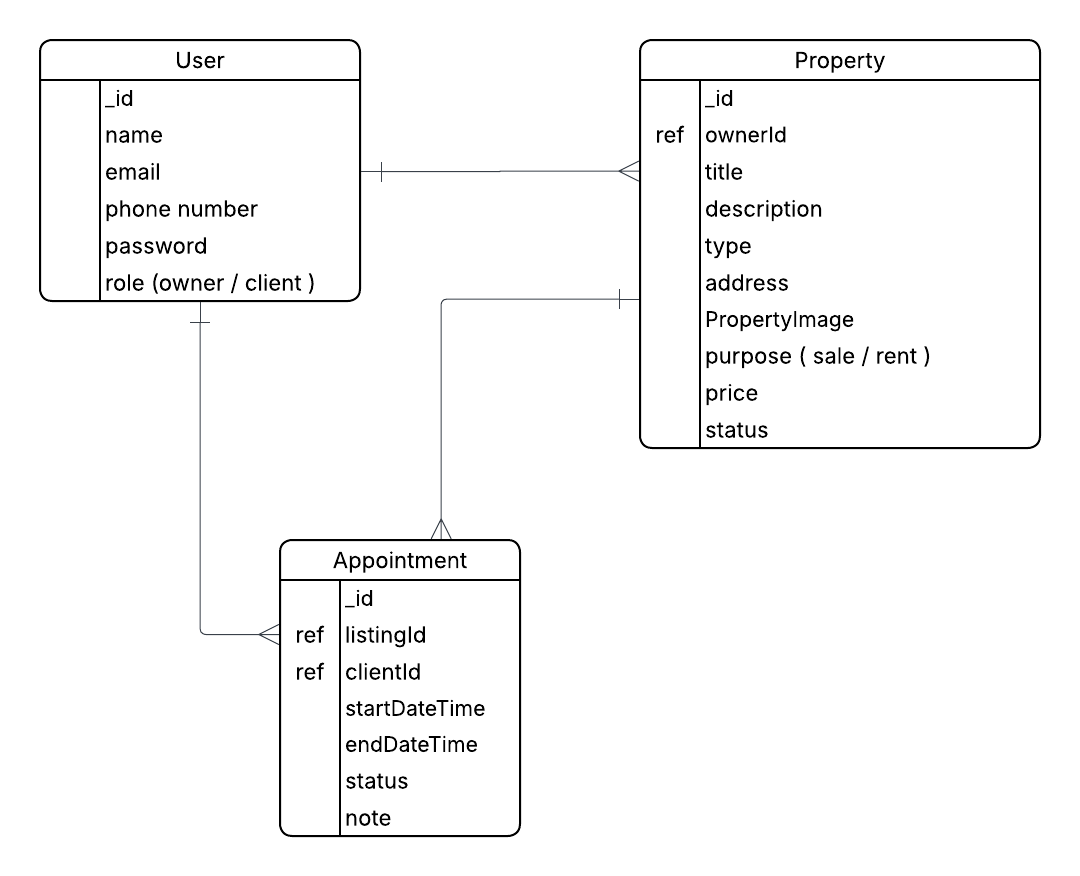
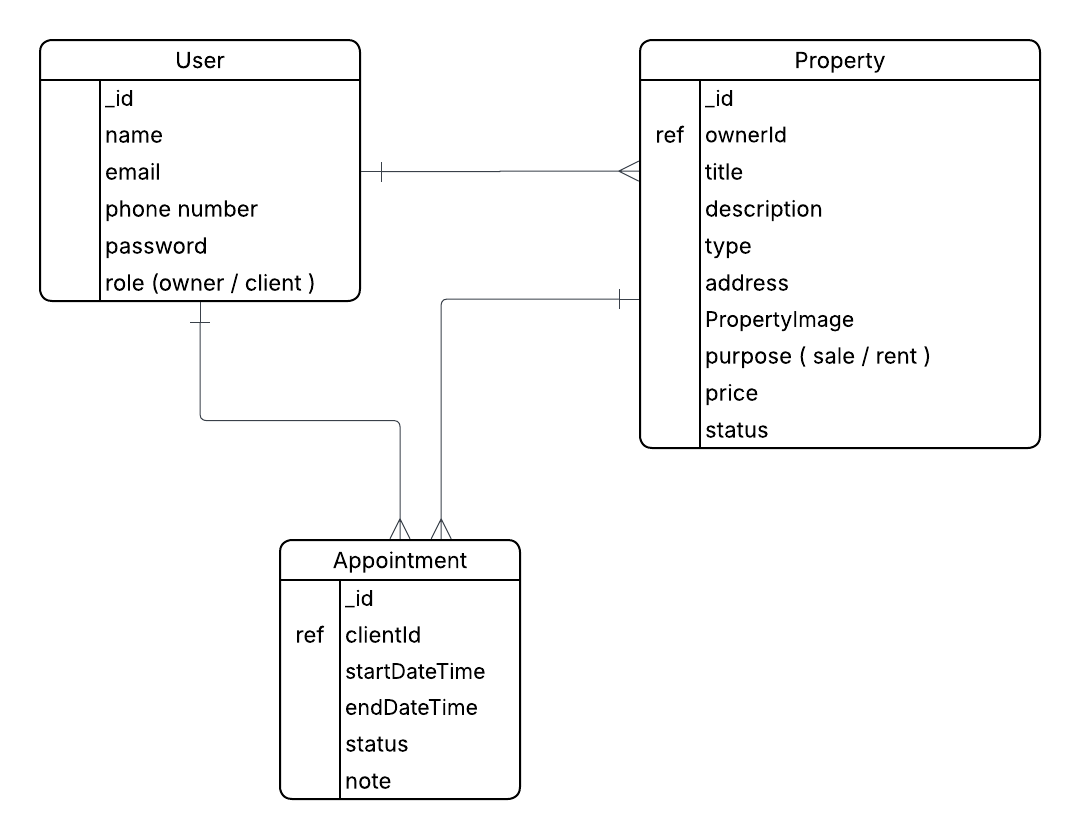
Minor modifications to the model

diff --git a/models/Appointment.js b/models/Appointment.js
@@ -1,32 +1,35 @@
 const mongoose = require("mongoose")
 
-const appointmentSchema = new mongoose.Schema({
-  listingId: {
-    type: mongoose.Schema.Types.ObjectId,
-    ref: "User",
-    required: true,
+const appointmentSchema = new mongoose.Schema(
+  {
+    propertyId: {
+      type: mongoose.Schema.Types.ObjectId,
+      ref: "Property",
+      required: true,
+    },
+    clientId: {
+      type: mongoose.Schema.Types.ObjectId,
+      ref: "User",
+      required: true,
+    },
+    startDateTime: {
+      type: Date,
+      required: true,
+    },
+    endDateTime: {
+      type: Date,
+      required: true,
+    },
+    status: {
+      type: String,
+      enum: ["pending", "confirmed", "cancelled", "completed"],
+      default: "pending",
+    },
+    note: {
+      type: String,
+    },
   },
-  clientId: {
-    type: mongoose.Schema.Types.ObjectId,
-    ref: "User",
-    required: true,
-  },
-  startDateTime: {
-    type: String,
-    required: true,
-  },
-  endDateTime: {
-    type: String,
-    required: true,
-  },
-  status: {
-    type: String,
-    required: true,
-  },
-  note: {
-    type: String,
-    required: true,
-  },
-})
+  { timestamps: true }
+)
 
 module.exports = mongoose.model("Appointment", appointmentSchema)

diff --git a/models/Property.js b/models/Property.js
@@ -13,7 +13,6 @@ const propertySchema = new mongoose.Schema(
     },
     description: {
       type: String,
-      required: true,
     },
     type: {
       type: String,
@@ -23,23 +22,25 @@ const propertySchema = new mongoose.Schema(
       type: String,
       required: true,
     },
-    propertyImage: {
-      type: Image,
-      required: true,
-    },
+    images: [
+      {
+        type: String,
+      },
+    ],
     purpose: {
       type: String,
+      enum: ["sale", "rent"],
       required: true,
     },
     price: {
       type: Number,
       required: true,
-      min: 1,
-      max: 5,
+      min: 0,
     },
     status: {
       type: String,
-      required: true,
+      enum: ["active", "paused", "sold", "rented", "archived"],
+      default: "active",
     },
   },
   { timestamps: true }

diff --git a/models/User.js b/models/User.js
@@ -9,9 +9,11 @@ const userSchema = new mongoose.Schema(
     email: {
       type: String,
       required: true,
+      unique: true,
+      lowercase: true,
     },
     phoneNumber: {
-      type: Number,
+      type: String,
       required: true,
     },
     password: {
@@ -20,6 +22,7 @@ const userSchema = new mongoose.Schema(
     },
     role: {
       type: String,
+      enum: ["owner", "client"],
       required: true,
     },
   },
